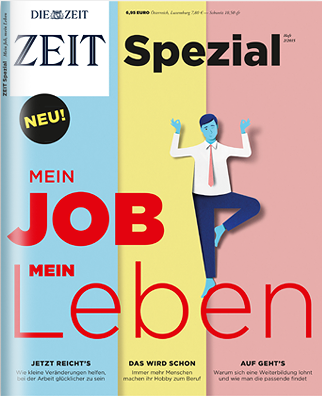
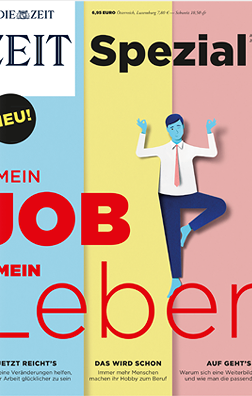
ZON-2061: enforce image rules (max-w/h and original ratio)

diff --git a/sass/web.site/modules/teaser/_teaser-printkiosk.sass b/sass/web.site/modules/teaser/_teaser-printkiosk.sass
@@ -20,14 +20,28 @@
 
 .teaser-printkiosk
 	float: left
+	margin: auto
 	text-align: center
 	width: 100%
-	margin: auto
 
 	&__media
+		height: remify(190px)
 		margin: 1em auto
+		position: relative
+		width: remify(160px)
+
+	&__media-container
+		bottom: 0
+		position: absolute
+		width: 100%
+
+	&__media-item
+		margin: auto
 		max-height: remify(190px)
 		max-width: remify(160px)
+		// override width:100% from .scaled-image
+		.scaled-image &
+			width: auto
 
 	&__container
 		margin: remify(20px) auto
